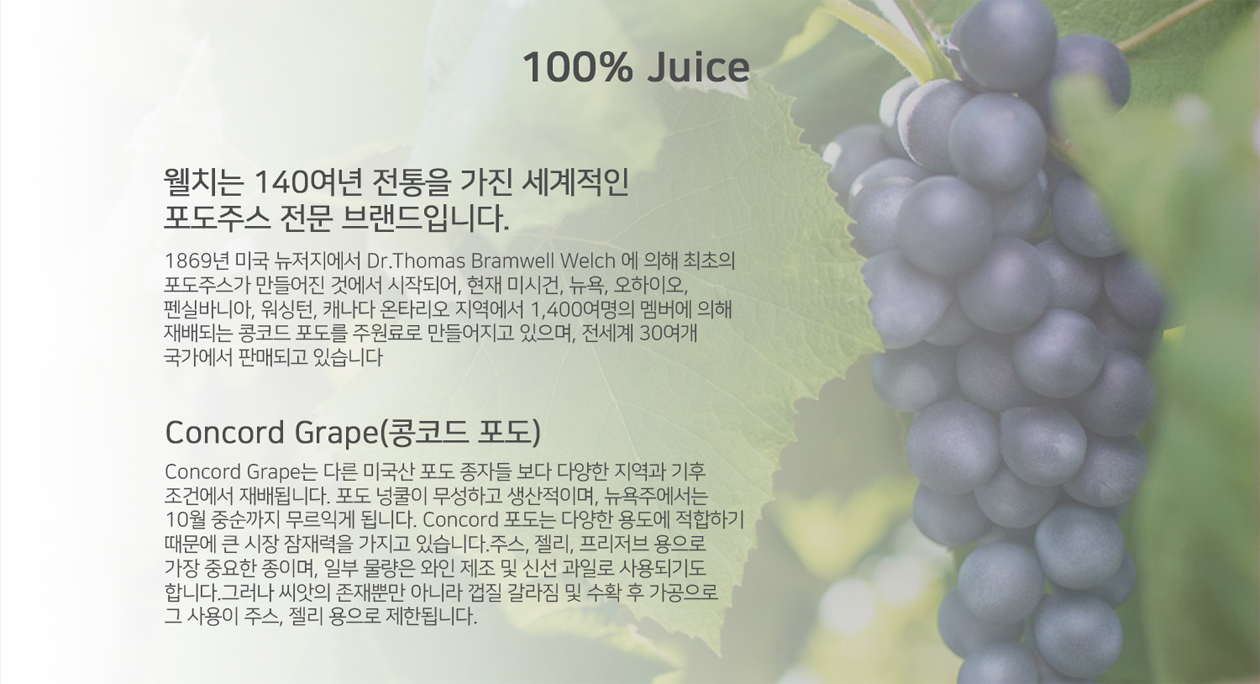
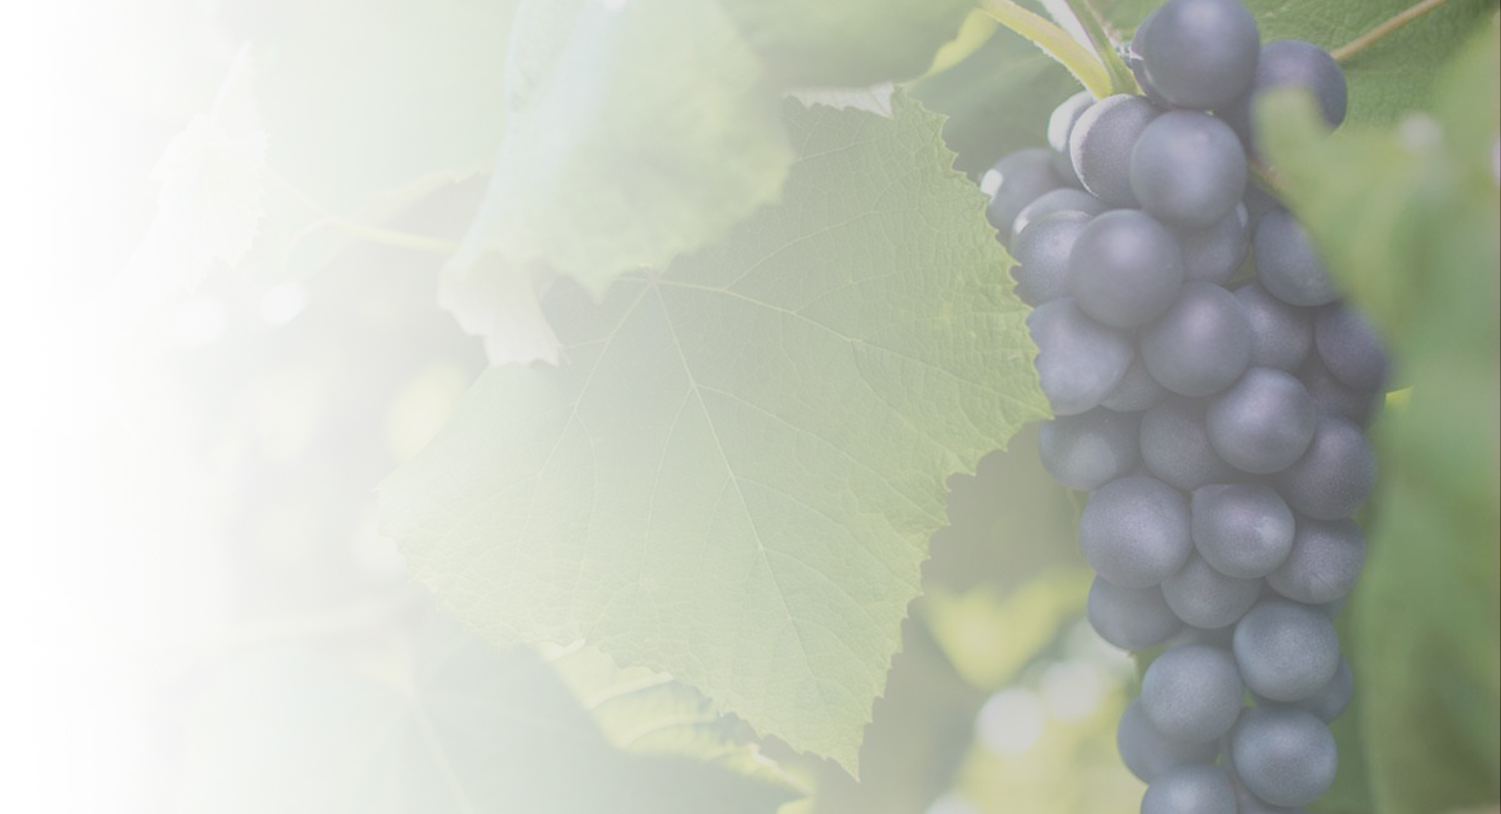
company

diff --git a/04company/sub02.html b/04company/sub02.html
@@ -24,6 +24,9 @@
 			$(".sub02_img > div").hide();
 			$(".sub02_img > div").eq(sub02_num).fadeIn();
 
+			// $(".sub02_img > div").hide().css({opacity:0});
+			// $(".sub02_img > div").eq(sub02_num).css({display:"block"}).animate({opacity:1});
+
 			return false;
 			});
 		});
@@ -62,7 +65,33 @@
 	<div id="sub02_content">
 		<div class="sub02_img">
 			<div>
-				<img src="images/sub02_content_img_01.jpg" alt="1">
+				<div class="txt">
+					
+					<div class="txt_1">
+						<p class="txt_p">
+							> Our Value > <span>Concept</span>
+						</p>
+						<h3>웰치는 140여년 전통을 가진 세계적인<br>
+						포도주스 전문 브랜드입니다.</h3>
+						<p>
+							1869년 미국 뉴저지에서 Dr.Thomas Bramwell Welch 에 의해 최초의<br>
+							포도주스가 만들어진 것에서 시작되어, 현재 미시건, 뉴욕, 오하이오,<br>
+							펜실바니아, 워싱턴, 캐나다 온타리오 지역에서 1,400여명의 멤버에 의해<br>
+							재배되는 콩코드 포도를 주원료로 만들어지고 있으며, 전세계 30여개<br>
+							국가에서 판매되고 있습니다
+						</p>
+						<h3>Concord Grape(콩코드 포도)</h3>
+						<p>
+							Concord Grape는 다른 미국산 포도 종자들 보다 다양한 지역과 기후<br>
+							조건에서 재배됩니다. 포도 넝쿨이 무성하고 생산적이며, 뉴욕주에서는<br>
+							10월 중순까지 무르익게 됩니다. Concord 포도는 다양한 용도에 적합하기<br>
+							때문에 큰 시장 잠재력을 가지고 있습니다.주스, 젤리, 프리저브 용으로<br>
+							가장 중요한 종이며, 일부 물량은 와인 제조 및 신선 과일로 사용되기도<br>
+							합니다.그러나 씨앗의 존재뿐만 아니라 껍질 갈라짐 및 수확 후 가공으로<br>
+							그 사용이 주스, 젤리 용으로 제한됩니다.
+						</p>
+					</div>
+				</div>
 			</div>
 			<div>
 				<img src="images/sub02_content_img_02.jpg" alt="2">

diff --git a/04company/css/style.css b/04company/css/style.css
@@ -468,9 +468,19 @@ footer{width : 100%; height:200px ;background-color: #fff;
 
 /*content*/
 	#sub02_content{}		
-		.sub02_img{width: 1260px;margin: 0 auto;}
-		.sub02_img div{display: none;}
+		.sub02_img{width: 100%;margin: 0 auto;}
+		.sub02_img > div:last-child{width: 1260px;margin: 0 auto;}
+
+		.sub02_img div{display: none;margin-bottom: 100px;}
 		.sub02_img div:first-child{display: block;}
+		.sub02_img .txt{width: 100%;height: 700px;margin: 0 auto;
+			background: url(../images/sub02_content_img_01.jpg) no-repeat right top; background-size: cover;position: relative;}
+		.sub02_img .txt > .txt_1{width: 980px;margin: 0 auto;}
+		.sub02_img .txt > .txt_1 h3{color:#4c4c4c;font-size:1.5em;
+			padding: 30px 0 0 100px;}
+		.sub02_img .txt > .txt_1 p{color:#4c4c4c;font-size:1.2em;
+			padding: 30px 0 0 100px;}
+		.sub02_img .txt > .txt_1 span{font-weight:bold;font-size: 1.1em;}
 
 
 /*footer*/

diff --git a/04company/sub01.html b/04company/sub01.html
@@ -32,8 +32,11 @@
 			$("#sub_menu2 > ul > li").removeClass();
 			$(this).addClass("active");
 
-			$(".sub_img > div").hide();
-			$(".sub_img > div").eq(sub_num).fadeIn();
+			// $(".sub_img > div").hide();
+			// $(".sub_img > div").eq(sub_num).fadeIn();
+
+			$(".sub_img > div").hide().css({opacity:0});
+			$(".sub_img > div").eq(sub_num).css({display:"block"}).animate({opacity:1});
 
 			if(sub_num == 1){
 				$("#big_content").show();
